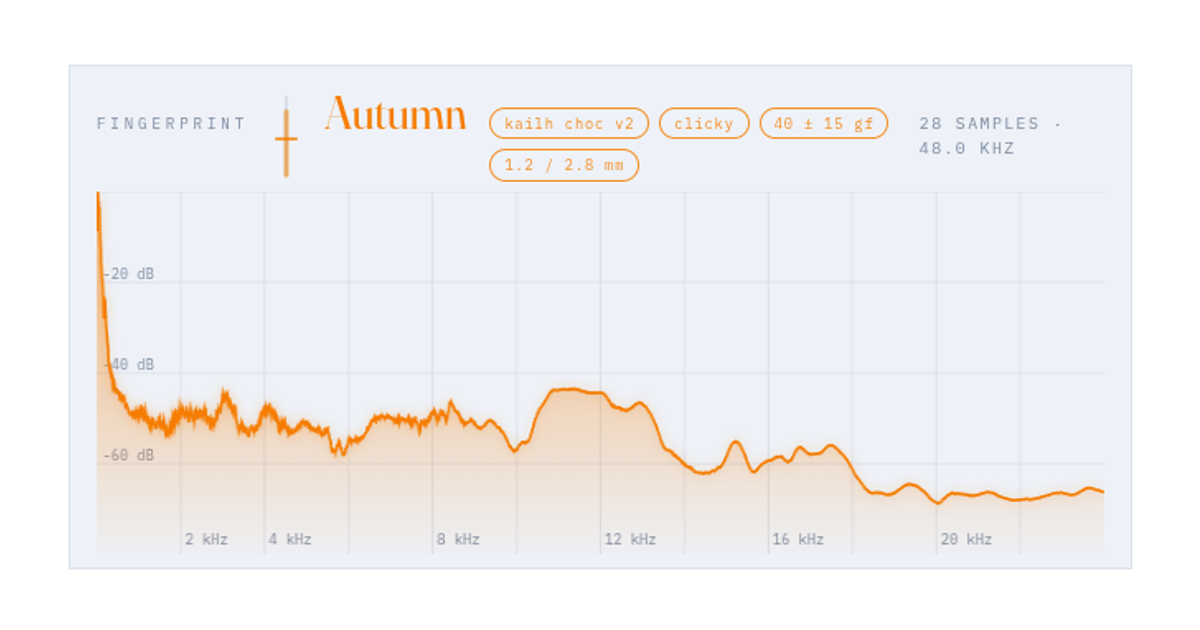
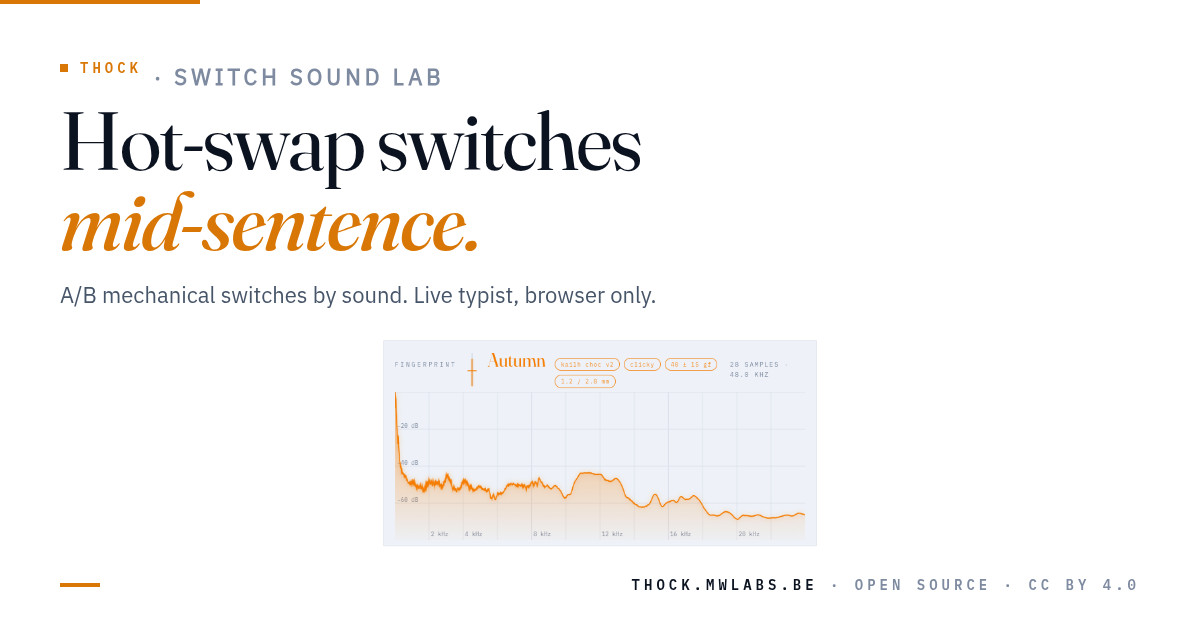
og: redesign card with tagline + plot, source HTML in scripts/
Replaces the bare spectrum screenshot with a tagline-led card:
'Hot-swap switches mid-sentence.' over 'A/B mechanical switches by
sound. Live typist, browser only.' The fingerprint plot stays as a
small visual proof at the bottom.

scripts/og.html is the source template, rendered via headless
Chromium so future regens are reproducible.

diff --git a/scripts/og.html b/scripts/og.html
@@ -1,0 +1,148 @@
+<!doctype html>
+<html lang="en">
+<head>
+<meta charset="utf-8" />
+<style>
+  /* Fonts borrowed from the mwlabs-website node_modules (same family the
+     thock app uses). file:// is fine for local Chromium rendering. */
+  @font-face {
+    font-family: "Fraunces";
+    src: url("../../mwlabs-website/node_modules/.pnpm/@fontsource-variable+fraunces@5.2.9/node_modules/@fontsource-variable/fraunces/files/fraunces-latin-full-normal.woff2") format("woff2");
+    font-weight: 100 900;
+    font-style: normal;
+  }
+  @font-face {
+    font-family: "Fraunces";
+    src: url("../../mwlabs-website/node_modules/.pnpm/@fontsource-variable+fraunces@5.2.9/node_modules/@fontsource-variable/fraunces/files/fraunces-latin-full-italic.woff2") format("woff2");
+    font-weight: 100 900;
+    font-style: italic;
+  }
+  @font-face {
+    font-family: "Plex Sans";
+    src: url("../../mwlabs-website/node_modules/.pnpm/@fontsource+ibm-plex-sans@5.2.8/node_modules/@fontsource/ibm-plex-sans/files/ibm-plex-sans-latin-400-normal.woff2") format("woff2");
+    font-weight: 400;
+    font-style: normal;
+  }
+  @font-face {
+    font-family: "Plex Mono";
+    src: url("../../mwlabs-website/node_modules/.pnpm/@fontsource+ibm-plex-mono@5.2.7/node_modules/@fontsource/ibm-plex-mono/files/ibm-plex-mono-latin-600-normal.woff2") format("woff2");
+    font-weight: 600;
+    font-style: normal;
+  }
+
+  * { box-sizing: border-box; margin: 0; padding: 0; }
+  html, body {
+    width: 1200px; height: 630px;
+    background: #ffffff;
+    color: #0b1220;
+    font-family: "Plex Sans", system-ui, sans-serif;
+    -webkit-font-smoothing: antialiased;
+    overflow: hidden;
+  }
+  body {
+    position: relative;
+    padding: 44px 60px 36px;
+    display: flex;
+    flex-direction: column;
+    justify-content: space-between;
+    gap: 22px;
+  }
+
+  /* Amber accent strip in the top-left corner. */
+  .accent {
+    position: absolute;
+    top: 0; left: 0;
+    width: 200px; height: 4px;
+    background: #d97706;
+  }
+
+  .brand {
+    font-family: "Plex Mono", monospace;
+    font-weight: 600;
+    font-size: 14px;
+    letter-spacing: 4px;
+    text-transform: uppercase;
+    color: #d97706;
+    display: flex;
+    align-items: center;
+    gap: 12px;
+  }
+  .brand .dot { width: 8px; height: 8px; background: #d97706; }
+  .brand .sub { color: #7e8aa0; }
+
+  .head {
+    margin-top: 8px;
+  }
+  h1 {
+    font-family: "Fraunces", Georgia, serif;
+    font-weight: 400;
+    font-size: 82px;
+    line-height: 0.98;
+    letter-spacing: -2px;
+    color: #0b1220;
+    max-width: 1080px;
+  }
+  h1 em { color: #d97706; font-style: italic; font-weight: 500; }
+
+  .sub {
+    margin-top: 18px;
+    font-family: "Plex Sans", sans-serif;
+    font-size: 22px;
+    line-height: 1.4;
+    color: #475569;
+    max-width: 920px;
+  }
+
+  /* Plot row sits at the bottom — visual proof of what the tool does. */
+  .plot-wrap {
+    display: flex;
+    align-items: flex-end;
+    justify-content: center;
+  }
+  .plot {
+    height: 220px;
+    width: auto;
+    display: block;
+  }
+
+  .foot {
+    display: flex;
+    align-items: center;
+    justify-content: space-between;
+    font-family: "Plex Mono", monospace;
+    font-weight: 600;
+    font-size: 14px;
+    letter-spacing: 4px;
+    text-transform: uppercase;
+    color: #7e8aa0;
+  }
+  .foot .url { color: #0b1220; }
+  .foot .rule { width: 40px; height: 4px; background: #d97706; }
+</style>
+</head>
+<body>
+  <span class="accent"></span>
+
+  <div>
+    <div class="brand">
+      <span class="dot"></span>
+      <span>THOCK</span>
+      <span class="sub">· SWITCH SOUND LAB</span>
+    </div>
+
+    <div class="head">
+      <h1>Hot-swap switches<br/><em>mid-sentence.</em></h1>
+      <p class="sub">A/B mechanical switches by sound. Live typist, browser only.</p>
+    </div>
+  </div>
+
+  <div class="plot-wrap">
+    <img class="plot" src="../docs/og-plot.png" alt="" />
+  </div>
+
+  <div class="foot">
+    <span class="rule"></span>
+    <span><span class="url">thock.mwlabs.be</span> · open source · cc by 4.0</span>
+  </div>
+</body>
+</html>
